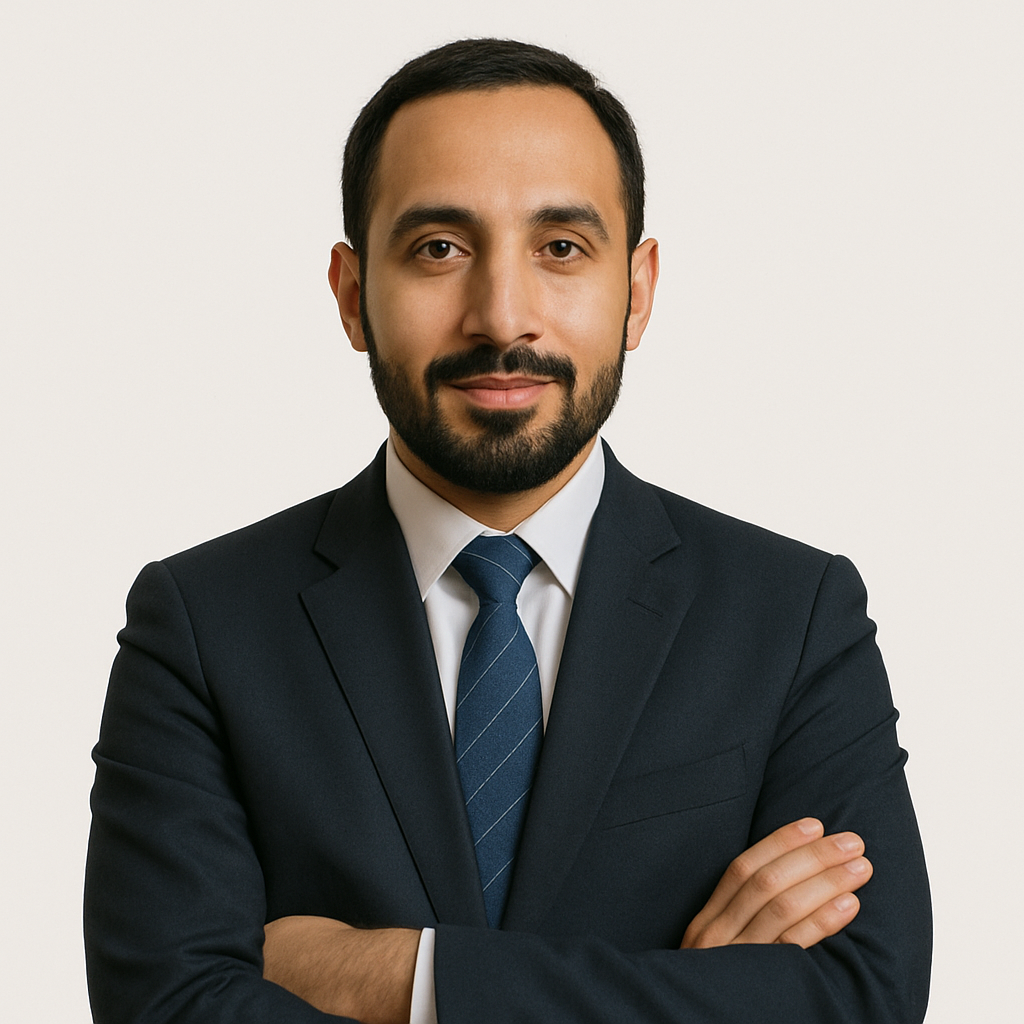
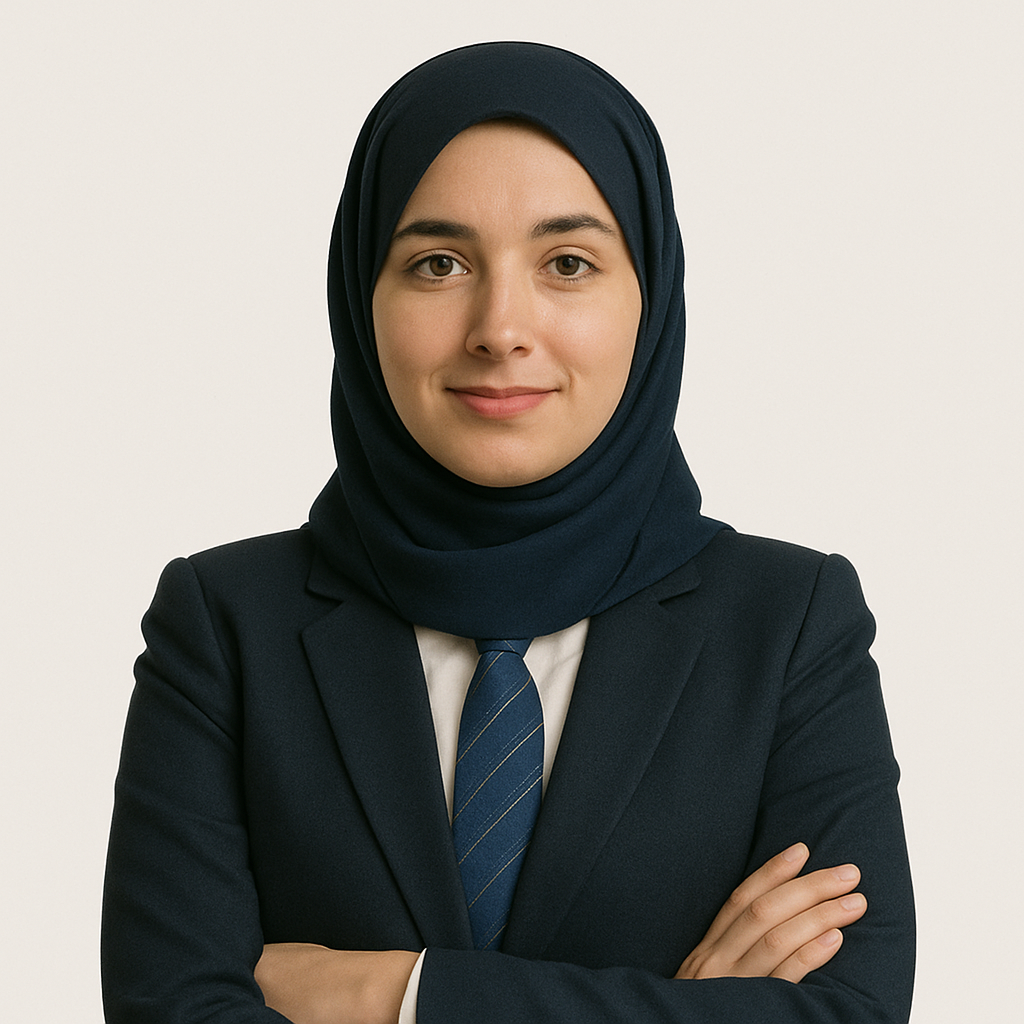
Fix author images: Add utility for author image handling and update all components to use correct author images

diff --git a/src/utils/authorImages.js b/src/utils/authorImages.js
@@ -1,0 +1,87 @@
+/**
+ * Utility لمعالجة صور المؤلفين
+ */
+
+// تحويل اسم المؤلف إلى اسم ملف الصورة
+export const getAuthorImageFilename = (authorName) => {
+  if (!authorName) return 'default-author.png';
+  
+  // إزالة الألقاب مثل د. أو م.
+  const cleanName = authorName.replace(/^(د\.|م\.|أ\.|المهندس|الدكتور|الأستاذ)\s*/g, '');
+  
+  // تحويل الاسم إلى تنسيق الملف
+  const filename = cleanName
+    .trim()
+    .replace(/\s+/g, '_') // استبدال المسافات بـ underscore
+    .replace(/[^\u0621-\u064A\u0660-\u0669a-zA-Z0-9_]/g, '') // إزالة الأحرف الخاصة
+    + '.png';
+  
+  return filename;
+};
+
+// الحصول على مسار صورة المؤلف
+export const getAuthorImagePath = (authorName) => {
+  const filename = getAuthorImageFilename(authorName);
+  return `/images/authors/${filename}`;
+};
+
+// خريطة أسماء المؤلفين إلى ملفات الصور
+export const authorImageMap = {
+  'د. خالد الاقتصادي': 'Mohammed_Alomari.png',
+  'م. عبد العزيز الشرقي': 'Fahad_Alotaibi.png',
+  'م. سلطان القحطاني': 'Sultan_Alqahtani.png',
+  'د. سارة الأحمدي': 'Sara_Alqahtani.png',
+  'سارة القحطاني': 'Sara_Alqahtani.png',
+  'تركي الحربي': 'Turki_Alharbi.png',
+  'فهد العتيبي': 'Fahad_Alotaibi.png',
+  'علياء الراشد': 'Alya_Alrashid.png',
+  'نورة الشمري': 'Noura_Alshammari.png',
+  'ريم السعيد': 'Reem_Alsaeed.png',
+  'محمد العمري': 'Mohammed_Alomari.png'
+};
+
+// الحصول على صورة المؤلف مع fallback
+export const getAuthorImage = (authorName) => {
+  if (!authorName) return '/images/authors/default-author.png';
+  
+  // البحث في الخريطة أولاً
+  const mappedImage = authorImageMap[authorName];
+  if (mappedImage) {
+    return `/images/authors/${mappedImage}`;
+  }
+  
+  // محاولة إنشاء اسم الملف من اسم المؤلف
+  const generatedPath = getAuthorImagePath(authorName);
+  
+  // إرجاع المسار المولد أو الافتراضي
+  return generatedPath || '/images/authors/default-author.png';
+};
+
+// التحقق من وجود صورة المؤلف
+export const checkAuthorImageExists = async (authorName) => {
+  const imagePath = getAuthorImage(authorName);
+  
+  try {
+    const response = await fetch(imagePath, { method: 'HEAD' });
+    return response.ok;
+  } catch {
+    return false;
+  }
+};
+
+// مكون React لعرض صورة المؤلف
+export const AuthorImage = ({ name, className = '', alt = '' }) => {
+  const imageSrc = getAuthorImage(name);
+  const altText = alt || `صورة ${name}`;
+  
+  return (
+    <img
+      src={imageSrc}
+      alt={altText}
+      className={className}
+      onError={(e) => {
+        e.target.src = '/images/authors/default-author.png';
+      }}
+    />
+  );
+}; 

diff --git a/src/pages/blog/[slug].jsx b/src/pages/blog/[slug].jsx
@@ -1,9 +1,10 @@
 import React, { Suspense, lazy } from 'react';
 import { useParams, Link } from 'react-router-dom';
 import BlogLayout from '../../components/blog/BlogLayout';
-import { articles } from '../../data/articles.jsx';
 import ImageProxy from '../../components/common/ImageProxy';
+import { articles } from '../../data/articles';
 import { fixArticleImage, getImagePathFromSlug } from '../../utils/fixArticleImages';
+import { getAuthorImage } from '../../utils/authorImages';
 
 // Helper to map slug to component path with better error handling
 const articleComponentMap = {
@@ -303,6 +304,9 @@ const BlogPost = () => {
 
   // Fix article image paths for the main post
   const fixedPost = post ? fixArticleImage(post) : null;
+  
+  // الحصول على صورة المؤلف
+  const authorImagePath = fixedPost ? getAuthorImage(fixedPost.author) : '/images/authors/default-author.png';
 
   // Handle post not found
   if (!post) {
@@ -453,11 +457,13 @@ const BlogPost = () => {
           <div className="text-center text-white p-4">
             <h1 className="text-4xl font-bold mb-4">{fixedPost.title}</h1>
             <div className="flex items-center justify-center mb-4">
-              <ImageProxy 
-                src={fixedPost.authorImage}
-                defaultSrc="/images/authors/default-author.png"
-                alt={fixedPost.author || 'كاتب'} 
-                className="w-12 h-12 rounded-full border-2 border-white mr-3"
+              <img
+                src={authorImagePath}
+                alt={`صورة ${fixedPost.author || 'المؤلف'}`}
+                className="w-12 h-12 rounded-full border-2 border-white mr-3 object-cover"
+                onError={(e) => {
+                  e.target.src = '/images/authors/default-author.png';
+                }}
               />
               <span>{fixedPost.author || 'كاتب'}</span>
               <span className="mx-3">•</span>
@@ -513,11 +519,13 @@ const BlogPost = () => {
           {/* Author Box */}
           <div className="bg-gray-50 p-6 rounded-lg my-8">
             <div className="flex flex-col md:flex-row items-center md:items-start">
-              <ImageProxy 
-                src={fixedPost.authorImage}
-                defaultSrc="/images/authors/default-author.png"
-                alt={fixedPost.author || 'كاتب'} 
-                className="w-24 h-24 rounded-full mb-4 md:mb-0 md:mr-6"
+              <img
+                src={authorImagePath}
+                alt={`صورة ${fixedPost.author || 'المؤلف'}`}
+                className="w-24 h-24 rounded-full mb-4 md:mb-0 md:mr-6 object-cover"
+                onError={(e) => {
+                  e.target.src = '/images/authors/default-author.png';
+                }}
               />
               <div>
                 <h3 className="text-xl font-bold mb-2">{fixedPost.author || 'كاتب'}</h3>

diff --git a/src/components/blog/BlogPostCard.jsx b/src/components/blog/BlogPostCard.jsx
@@ -3,6 +3,7 @@ import { Link } from 'react-router-dom';
 import ImageProxy from '../common/ImageProxy';
 import { getImagePathFromSlug } from '../../utils/fixArticleImages';
 import { getAlternativeImagePaths } from '../../utils/imageHelpers';
+import { getAuthorImage } from '../../utils/authorImages';
 
 /**
  * مكون بطاقة عرض المقال
@@ -112,6 +113,9 @@ const BlogPostCard = ({ post }) => {
     return getAlternativeImagePaths(post.slug);
   };
 
+  // الحصول على صورة المؤلف
+  const authorImagePath = getAuthorImage(post.author);
+
   return (
     <div 
       ref={cardRef}
@@ -175,16 +179,14 @@ const BlogPostCard = ({ post }) => {
           <div className="flex items-center justify-between text-sm text-gray-500">
             <div className="flex items-center">
               {isVisible ? (
-                <ImageProxy
-                  src={post.authorImage || '/images/authors/default-author.png'}
-                  fallbackSrc={[
-                    `/images/authors/${post.author?.toLowerCase()?.replace(/\s+/g, '_')}.jpg`,
-                    `/images/authors/${post.author?.toLowerCase()?.replace(/\s+/g, '_')}.png`
-                  ]}
-                  defaultSrc="/images/authors/default-author.png"
-                  alt={post.author || 'كاتب'}
-                  className="w-8 h-8 rounded-full ml-2 border-2 border-gray-100"
+                <img
+                  src={authorImagePath}
+                  alt={`صورة ${post.author || 'المؤلف'}`}
+                  className="w-8 h-8 rounded-full ml-2 border-2 border-gray-100 object-cover"
                   loading="lazy"
+                  onError={(e) => {
+                    e.target.src = '/images/authors/default-author.png';
+                  }}
                 />
               ) : (
                 <div className="w-8 h-8 rounded-full ml-2 bg-gray-200 animate-pulse"></div>
